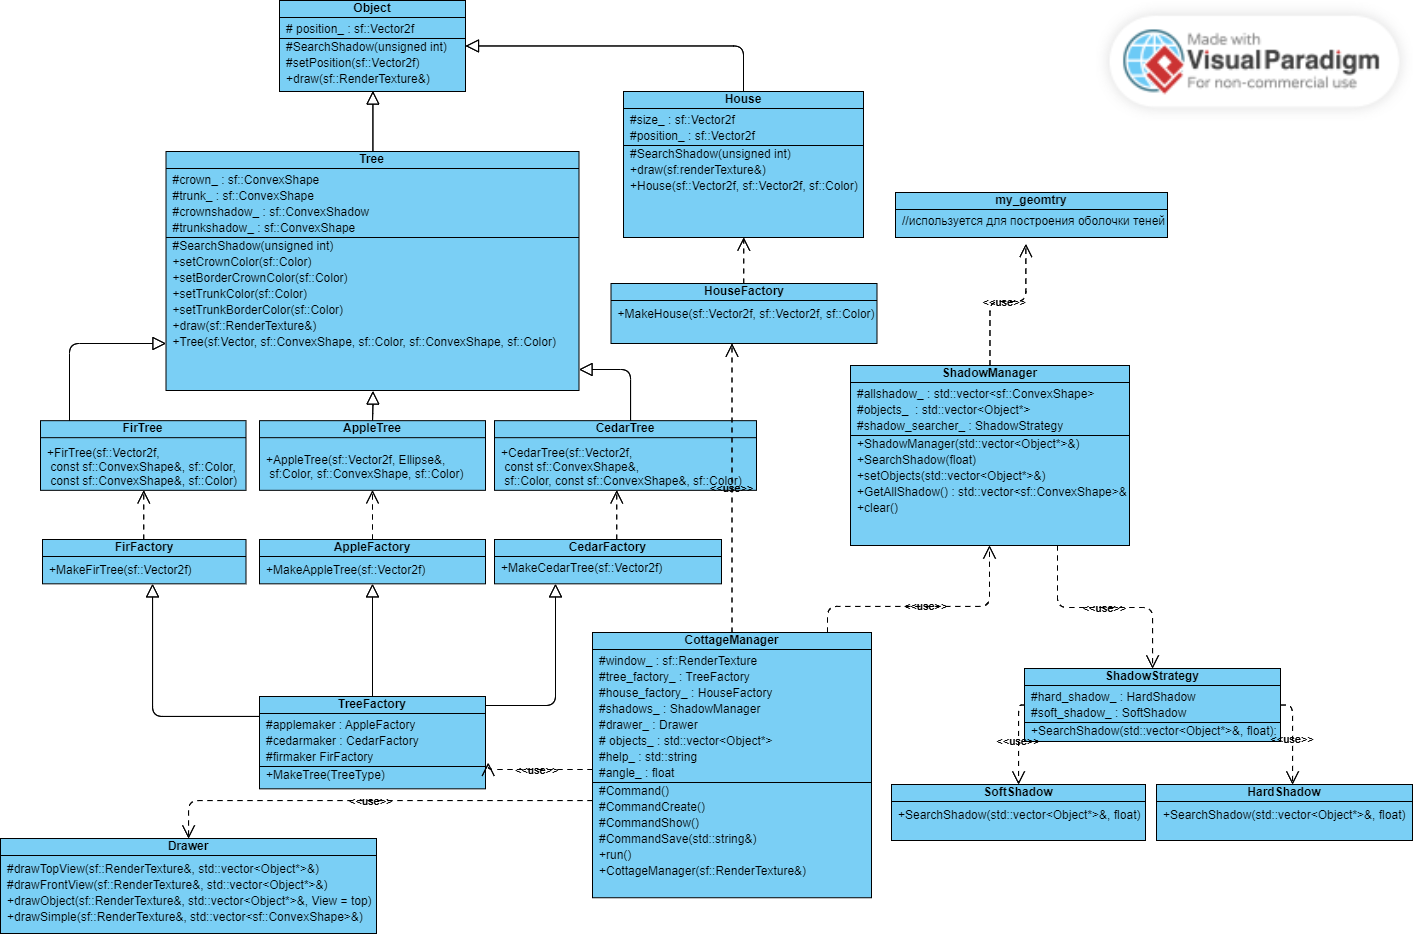
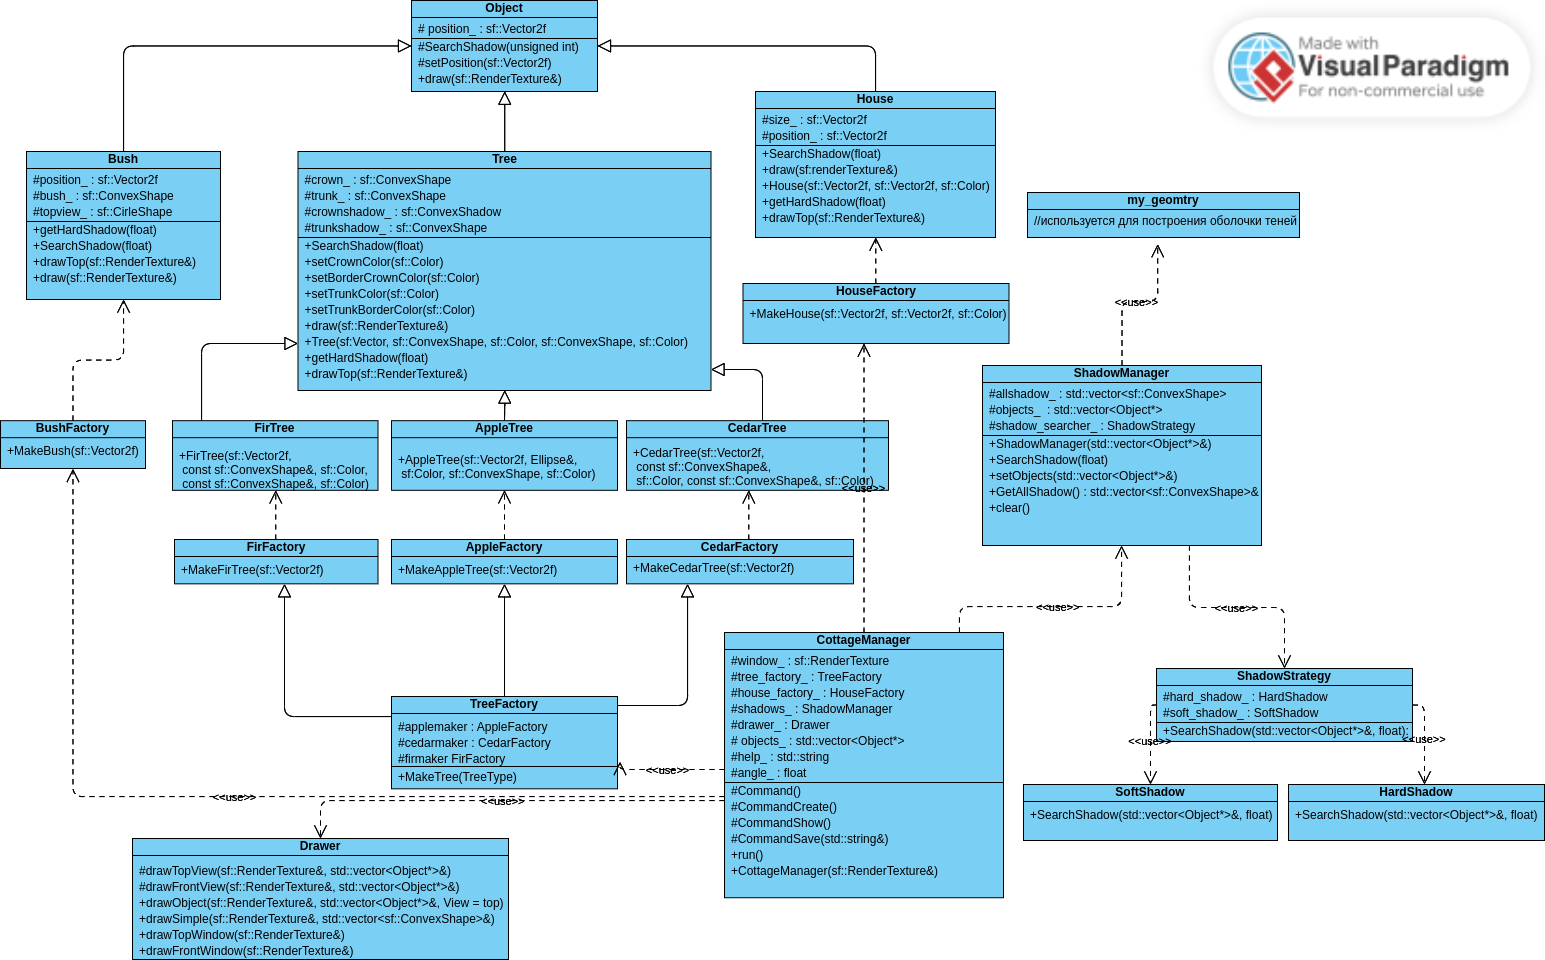
финальная версия проекта

diff --git a/managers/CottegeManager.h b/managers/CottegeManager.h
@@ -16,7 +16,7 @@ class CottageManager {
                      "'show' with parameter(top, front) to save image with view from top or front \n"
                      "'clear' to delete all added objects \n"
                      "'exit' to stop program \n"
-                     "'sun angle' with single parameter angle(float): to set position of sun above place \n";
+                     "'angle' with single parameter angle(float): to set position of sun above place \n";
 
   std::vector<Tree> trees_;
   std::vector<House> houses_;

diff --git a/objects/src/TreeFactory.cpp b/objects/src/TreeFactory.cpp
@@ -1,6 +1,6 @@
 #include "../TreeFactory.h"
 
-Tree TreeFactory::MakeTree (TreeType tree, sf::Vector2f& position) {
+Tree TreeFactory::MakeTree(TreeType tree, sf::Vector2f& position) {
   switch (tree) {
     case cedar:
       return cedarmaker.MakeCedarTree(position);

diff --git a/objects/Bush.h b/objects/Bush.h
@@ -3,7 +3,7 @@
 #include "Object.h"
 
 class Bush : public Object {
- private:
+protected:
   sf::Vector2f position_;
   sf::ConvexShape bush_{};
   sf::CircleShape topview_{};

diff --git a/README.md b/README.md
@@ -1,97 +1,12 @@
 # tpproject
 1. Самсонов Ярослав Николаевич
 2. Строим дачу
-3. Пока в проекте нет полноценно работающего интерфейса, но с его появлением будет добавлен run.sh, который запускает проект
+3. команда ./run.sh запускает проект
 4. используется SFML версии 2.6.1
 5. Используются паттерны фабрика(TreeFactory, HouseFactory), стратегия(ShadowStrategy) и фасад(CottegeManager).
-
-
-## Getting started
-
-To make it easy for you to get started with GitLab, here's a list of recommended next steps.
-
-Already a pro? Just edit this README.md and make it your own. Want to make it easy? [Use the template at the bottom](#editing-this-readme)!
-
-## Add your files
-
-- [ ] [Create](https://docs.gitlab.com/ee/user/project/repository/web_editor.html#create-a-file) or [upload](https://docs.gitlab.com/ee/user/project/repository/web_editor.html#upload-a-file) files
-- [ ] [Add files using the command line](https://docs.gitlab.com/ee/gitlab-basics/add-file.html#add-a-file-using-the-command-line) or push an existing Git repository with the following command:
-
-```
-cd existing_repo
-git remote add origin https://gitlab.akhcheck.ru/iaroslav.samsonov/tpproject.git
-git branch -M main
-git push -uf origin main
-```
-
-## Integrate with your tools
-
-- [ ] [Set up project integrations](https://gitlab.akhcheck.ru/iaroslav.samsonov/tpproject/-/settings/integrations)
-
-## Collaborate with your team
-
-- [ ] [Invite team members and collaborators](https://docs.gitlab.com/ee/user/project/members/)
-- [ ] [Create a new merge request](https://docs.gitlab.com/ee/user/project/merge_requests/creating_merge_requests.html)
-- [ ] [Automatically close issues from merge requests](https://docs.gitlab.com/ee/user/project/issues/managing_issues.html#closing-issues-automatically)
-- [ ] [Enable merge request approvals](https://docs.gitlab.com/ee/user/project/merge_requests/approvals/)
-- [ ] [Set auto-merge](https://docs.gitlab.com/ee/user/project/merge_requests/merge_when_pipeline_succeeds.html)
-
-## Test and Deploy
-
-Use the built-in continuous integration in GitLab.
-
-- [ ] [Get started with GitLab CI/CD](https://docs.gitlab.com/ee/ci/quick_start/index.html)
-- [ ] [Analyze your code for known vulnerabilities with Static Application Security Testing (SAST)](https://docs.gitlab.com/ee/user/application_security/sast/)
-- [ ] [Deploy to Kubernetes, Amazon EC2, or Amazon ECS using Auto Deploy](https://docs.gitlab.com/ee/topics/autodevops/requirements.html)
-- [ ] [Use pull-based deployments for improved Kubernetes management](https://docs.gitlab.com/ee/user/clusters/agent/)
-- [ ] [Set up protected environments](https://docs.gitlab.com/ee/ci/environments/protected_environments.html)
-
-***
-
-# Editing this README
-
-When you're ready to make this README your own, just edit this file and use the handy template below (or feel free to structure it however you want - this is just a starting point!). Thanks to [makeareadme.com](https://www.makeareadme.com/) for this template.
-
-## Suggestions for a good README
-
-Every project is different, so consider which of these sections apply to yours. The sections used in the template are suggestions for most open source projects. Also keep in mind that while a README can be too long and detailed, too long is better than too short. If you think your README is too long, consider utilizing another form of documentation rather than cutting out information.
-
-## Name
-Choose a self-explaining name for your project.
-
-## Description
-Let people know what your project can do specifically. Provide context and add a link to any reference visitors might be unfamiliar with. A list of Features or a Background subsection can also be added here. If there are alternatives to your project, this is a good place to list differentiating factors.
-
-## Badges
-On some READMEs, you may see small images that convey metadata, such as whether or not all the tests are passing for the project. You can use Shields to add some to your README. Many services also have instructions for adding a badge.
-
-## Visuals
-Depending on what you are making, it can be a good idea to include screenshots or even a video (you'll frequently see GIFs rather than actual videos). Tools like ttygif can help, but check out Asciinema for a more sophisticated method.
-
-## Installation
-Within a particular ecosystem, there may be a common way of installing things, such as using Yarn, NuGet, or Homebrew. However, consider the possibility that whoever is reading your README is a novice and would like more guidance. Listing specific steps helps remove ambiguity and gets people to using your project as quickly as possible. If it only runs in a specific context like a particular programming language version or operating system or has dependencies that have to be installed manually, also add a Requirements subsection.
-
-## Usage
-Use examples liberally, and show the expected output if you can. It's helpful to have inline the smallest example of usage that you can demonstrate, while providing links to more sophisticated examples if they are too long to reasonably include in the README.
-
-## Support
-Tell people where they can go to for help. It can be any combination of an issue tracker, a chat room, an email address, etc.
-
-## Roadmap
-If you have ideas for releases in the future, it is a good idea to list them in the README.
-
-## Contributing
-State if you are open to contributions and what your requirements are for accepting them.
-
-For people who want to make changes to your project, it's helpful to have some documentation on how to get started. Perhaps there is a script that they should run or some environment variables that they need to set. Make these steps explicit. These instructions could also be useful to your future self.
-
-You can also document commands to lint the code or run tests. These steps help to ensure high code quality and reduce the likelihood that the changes inadvertently break something. Having instructions for running tests is especially helpful if it requires external setup, such as starting a Selenium server for testing in a browser.
-
-## Authors and acknowledgment
-Show your appreciation to those who have contributed to the project.
-
-## License
-For open source projects, say how it is licensed.
-
-## Project status
-If you have run out of energy or time for your project, put a note at the top of the README saying that development has slowed down or stopped completely. Someone may choose to fork your project or volunteer to step in as a maintainer or owner, allowing your project to keep going. You can also make an explicit request for maintainers.
+6. как фича был добавлен клас Bush, создающий простой куст и также были внесены небольшие косметические улучшения
+7. среди изъянов отмечу сложность в добавлении новых отрисовываемых наследников класса Object:
+во первых приходиться много раз писать похожий на уже существующий в проекте код, а также необходимо во многих местах добавить команды на отрисовку кустов 
+и их хранение и тд. Возможно это легко исправимо на уровне плюсов, но мне пока неизвестно как.
+Кроме того среди изьянов - магические константы, связанные с тем что проект не расчитан на то что пользователь будет что то выбирать кроме 
+позиций объектов, поэтому как упрощение часть вариаций зафиксирована, хотя это поправимо вынесением одинаковых чисел в отедльную константу
